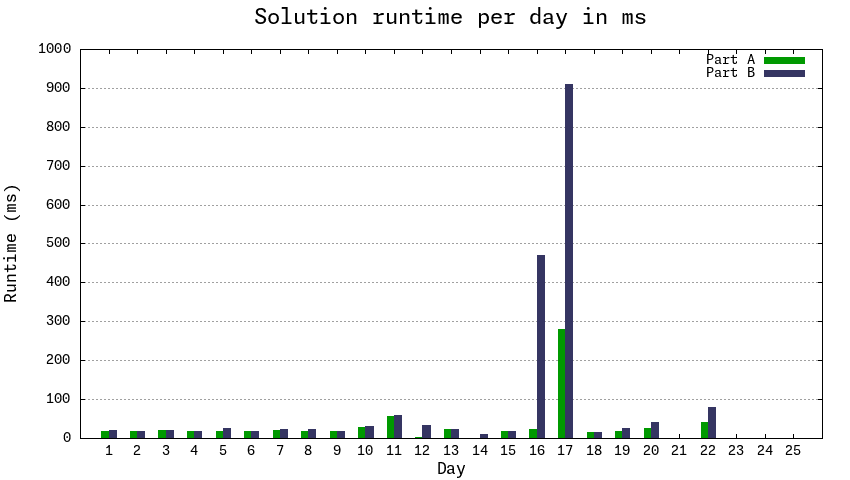
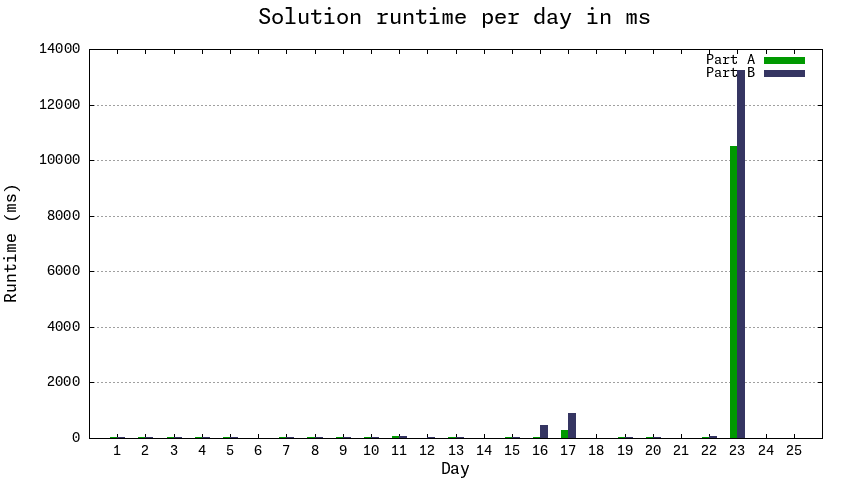
cleanup 23

diff --git a/23/b.ts b/23/b.ts
@@ -11,22 +11,23 @@ type Cell = {
   char: string;
 };
 
-const grid: Cell[][] = [];
-let cellId = 0;
+function loadGrid(lines: string[]) {
+  const grid: Cell[][] = [];
+  let cellId = 0;
 
-lines.forEach((line, y) => {
-  grid[y] = [];
-  line.trim().split("").forEach((char, x) => {
-    grid[y].push({ id: cellId++, y, x, char: char === "#" ? "#" : "." });
+  lines.forEach((line, y) => {
+    grid[y] = [];
+    line.trim().split("").forEach((char, x) => {
+      grid[y].push({ id: cellId++, y, x, char: char === "#" ? "#" : "." });
+    });
   });
-});
 
-const nodes: Cell[] = [
-  grid[0][1], // Start
-  grid[lines.length - 1][lines[0].length - 2], // End
-];
+  return grid;
+}
 
-function loadNodes() {
+function loadNodes(grid: Cell[][]) {
+  const nodes: Cell[] = [];
+
   for (let y = 1; y < grid.length - 1; y++) {
     for (let x = 1; x < grid[0].length - 1; x++) {
       const cell = grid[y][x];
@@ -41,75 +42,86 @@ function loadNodes() {
       }
     }
   }
+
+  return nodes;
 }
-// loadNodes();
-console.info(nodes);
 
-const distances: Record<number, Record<number, number>> = defaultDict(
-  () => ({} as Record<number, number>),
-);
+function findNodeDistances(grid: Cell[][], nodes: Cell[]) {
+  const distances: Record<number, Record<number, number>> = defaultDict(
+    () => ({} as Record<number, number>),
+  );
 
-function linkNodes(
-  current: Cell,
-  steps: number,
-  seen: Set<number>,
-  prevNode: Cell,
-) {
-  if (seen.has(current.id)) return 0;
-  seen.add(current.id);
+  function linkNodes(
+    current: Cell,
+    steps: number,
+    seen: Set<number>,
+    prevNode: Cell,
+  ) {
+    if (seen.has(current.id)) return 0;
+    seen.add(current.id);
 
-  const north = grid.at(current.y - 1)?.at(current.x);
-  const east = grid.at(current.y)?.at(current.x + 1);
-  const south = grid.at(current.y + 1)?.at(current.x);
-  const west = grid.at(current.y)?.at(current.x - 1);
+    const north = grid.at(current.y - 1)?.at(current.x);
+    const east = grid.at(current.y)?.at(current.x + 1);
+    const south = grid.at(current.y + 1)?.at(current.x);
+    const west = grid.at(current.y)?.at(current.x - 1);
 
-  const nb = [north, east, south, west].filter((x) => x && x.char !== "#");
-  if (nb.length > 2 && current.id !== prevNode.id) {
-    distances[current.id][prevNode.id] = steps;
-    distances[prevNode.id][current.id] = steps;
-    return;
+    const nb = [north, east, south, west].filter((x) => x && x.char !== "#");
+    if (nb.length > 2 && current.id !== prevNode.id) {
+      distances[current.id][prevNode.id] = steps;
+      distances[prevNode.id][current.id] = steps;
+      return;
+    }
+
+    if (north && north.char !== "#") {
+      linkNodes(north, steps + 1, seen, prevNode);
+    }
+    if (east && east.char !== "#") {
+      linkNodes(east, steps + 1, seen, prevNode);
+    }
+    if (south && south.char !== "#") {
+      linkNodes(south, steps + 1, seen, prevNode);
+    }
+    if (west && west.char !== "#") {
+      linkNodes(west, steps + 1, seen, prevNode);
+    }
   }
 
-  if (north && north.char !== "#") {
-    linkNodes(north, steps + 1, seen, prevNode);
-  }
-  if (east && east.char !== "#") {
-    linkNodes(east, steps + 1, seen, prevNode);
-  }
-  if (south && south.char !== "#") {
-    linkNodes(south, steps + 1, seen, prevNode);
-  }
-  if (west && west.char !== "#") {
-    linkNodes(west, steps + 1, seen, prevNode);
-  }
-}
-nodes.forEach((node) => {
-  linkNodes(node, 0, new Set(), node);
-});
-
-// console.info(distances);
-
-function walk(current: Cell, steps: number, seen: Set<number>): number {
-  if (seen.has(current.id)) return 0;
-  seen.add(current.id);
-  let longestWalk = 0;
-
-  if (current.y === lines.length - 1 && current.x === lines[0].length - 2) {
-    // console.log("Reached destination!", steps);
-    return steps;
-  }
-
-  const neighbours = distances[current.id];
-
-  Object.entries(neighbours).forEach(([nbId, distToNb]) => {
-    const nb = nodes.find((n) => n.id === Number(nbId))!;
-    const nbDist = walk(nb, steps + distToNb, new Set(seen));
-
-    longestWalk = Math.max(longestWalk, nbDist);
+  nodes.forEach((node) => {
+    linkNodes(node, 0, new Set(), node);
   });
 
-  return longestWalk;
+  return distances;
 }
 
-// 6898
-console.info(walk(nodes[0], 0, new Set()));
+function walk(
+  distances: Record<number, Record<number, number>>,
+  current: number,
+  target: number,
+  seen = new Set<number>(),
+): number {
+  if (current === target) return 0;
+
+  let dist = Number.MIN_SAFE_INTEGER;
+  seen.add(current);
+
+  for (const [nbIdStr, distance] of Object.entries(distances[current])) {
+    const nbId = Number(nbIdStr);
+    if (!seen.has(nbId)) {
+      dist = Math.max(dist, distance + walk(distances, nbId, target, seen));
+    }
+  }
+
+  seen.delete(current);
+  return dist;
+}
+
+const grid = loadGrid(lines);
+
+const nodes = loadNodes(grid);
+const start = grid[0][1];
+const target = grid[grid.length - 1][grid[0].length - 2];
+nodes.push(start, target);
+
+const distances = findNodeDistances(grid, nodes);
+
+console.info(walk(distances, start.id, target.id));

diff --git a/23/a.ts b/23/a.ts
@@ -9,99 +9,89 @@ type Cell = {
   char: string;
 };
 
-const grid: Cell[][] = [];
-let cellId = 0;
+function loadGrid(lines: string[]) {
+  const grid: Cell[][] = [];
+  let cellId = 0;
 
-lines.forEach((line, y) => {
-  grid[y] = [];
-  line.trim().split("").forEach((char, x) => {
-    grid[y].push({ id: cellId++, y, x, char });
+  lines.forEach((line, y) => {
+    grid[y] = [];
+    line.trim().split("").forEach((char, x) => {
+      grid[y].push({ id: cellId++, y, x, char });
+    });
   });
-});
 
-function walk(current: Cell, steps: number, seen: Set<number>): number {
+  return grid;
+}
+
+function walk(
+  grid: Cell[][],
+  current: Cell,
+  steps: number,
+  seen: Set<number>,
+): number {
   if (seen.has(current.id)) return 0;
   seen.add(current.id);
-  let longestWalk = 0;
 
   if (current.y === lines.length - 1 && current.x === lines[0].length - 2) {
-    console.log("Reached destination!", steps);
     return steps;
   }
 
-  const north = grid.at(current.y - 1)?.at(current.x);
-  const east = grid.at(current.y)?.at(current.x + 1);
-  const south = grid.at(current.y + 1)?.at(current.x);
-  const west = grid.at(current.y)?.at(current.x - 1);
-
+  let max = 0;
   switch (current.char) {
     case ".": {
+      const north = grid.at(current.y - 1)?.at(current.x);
       if (north && north.char !== "#") {
-        longestWalk = Math.max(
-          longestWalk,
-          walk(north, steps + 1, new Set(seen)),
-        );
+        max = Math.max(max, walk(grid, north, steps + 1, new Set(seen)));
       }
+
+      const east = grid.at(current.y)?.at(current.x + 1);
       if (east && east.char !== "#") {
-        longestWalk = Math.max(
-          longestWalk,
-          walk(east, steps + 1, new Set(seen)),
-        );
+        max = Math.max(max, walk(grid, east, steps + 1, new Set(seen)));
       }
+
+      const south = grid.at(current.y + 1)?.at(current.x);
       if (south && south.char !== "#") {
-        longestWalk = Math.max(
-          longestWalk,
-          walk(south, steps + 1, new Set(seen)),
-        );
+        max = Math.max(max, walk(grid, south, steps + 1, new Set(seen)));
       }
+
+      const west = grid.at(current.y)?.at(current.x - 1);
       if (west && west.char !== "#") {
-        longestWalk = Math.max(
-          longestWalk,
-          walk(west, steps + 1, new Set(seen)),
-        );
+        max = Math.max(max, walk(grid, west, steps + 1, new Set(seen)));
       }
       break;
     }
     case "^": {
+      const north = grid.at(current.y - 1)?.at(current.x);
       if (north && north.char !== "#") {
-        longestWalk = Math.max(
-          longestWalk,
-          walk(north, steps + 1, new Set(seen)),
-        );
+        max = Math.max(max, walk(grid, north, steps + 1, new Set(seen)));
       }
       break;
     }
     case ">": {
+      const east = grid.at(current.y)?.at(current.x + 1);
       if (east && east.char !== "#") {
-        longestWalk = Math.max(
-          longestWalk,
-          walk(east, steps + 1, new Set(seen)),
-        );
+        max = Math.max(max, walk(grid, east, steps + 1, new Set(seen)));
       }
       break;
     }
     case "v": {
+      const south = grid.at(current.y + 1)?.at(current.x);
       if (south && south.char !== "#") {
-        longestWalk = Math.max(
-          longestWalk,
-          walk(south, steps + 1, new Set(seen)),
-        );
+        max = Math.max(max, walk(grid, south, steps + 1, new Set(seen)));
       }
       break;
     }
     case "<": {
+      const west = grid.at(current.y)?.at(current.x - 1);
       if (west && west.char !== "#") {
-        longestWalk = Math.max(
-          longestWalk,
-          walk(west, steps + 1, new Set(seen)),
-        );
+        max = Math.max(max, walk(grid, west, steps + 1, new Set(seen)));
       }
       break;
     }
   }
 
-  return longestWalk;
+  return max;
 }
 
-// 2442
-console.info(walk(grid[0][1], 0, new Set()));
+const grid = loadGrid(lines);
+console.info(walk(grid, grid[0][1], 0, new Set()));

diff --git a/22/b.ts b/22/b.ts
@@ -11,9 +11,8 @@ bricks.sort((a, b) => a.zMin - b.zMin);
 drop(bricks);
 
 let count = 0;
-const unsafe = getUnsafe(bricks);
 
-Array.from(unsafe).forEach((ub) => {
+Array.from(getUnsafe(bricks)).forEach((ub) => {
   const queue: Brick[] = Array.from(ub.supports);
   const seen = new Set<number>();
   const fallen = new Set<number>([ub.index]);
